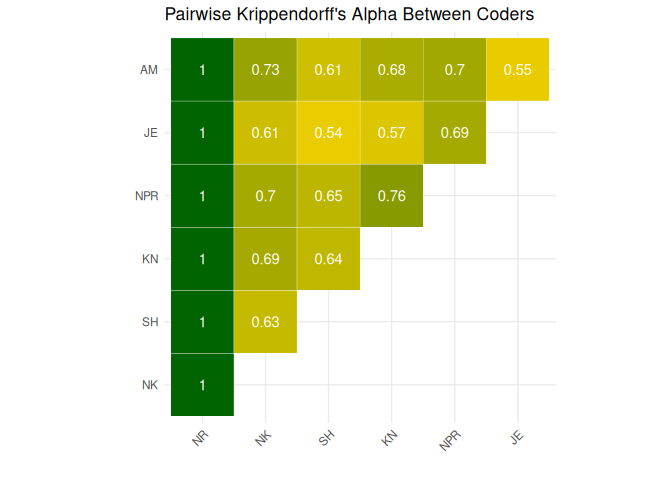
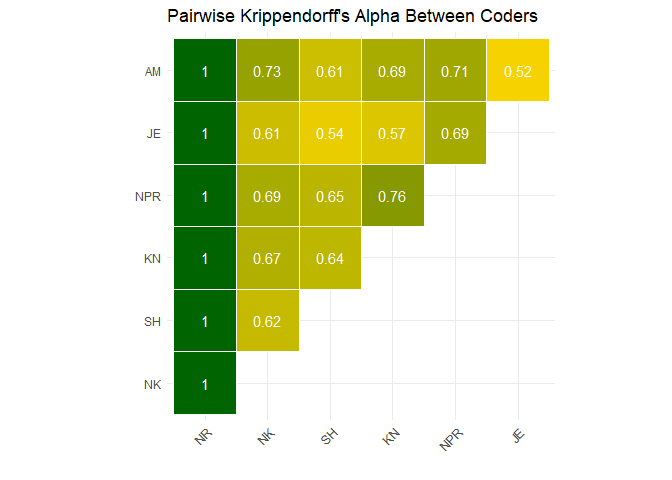
updated download/create stances scripts

diff --git a/src/data-processing/quarto_test/topic_report.md b/src/data-processing/quarto_test/topic_report.md
@@ -25,7 +25,7 @@ library(purrr)
 ```
 
 ``` r
-all_units <- read_csv(here::here("data/intermediate/coded_units_gpt.csv"))
+all_units <- read_csv(here::here("data/intermediate/coded_units_gpt_nshot.csv"))
 gpt_issues_all <- read_csv(here::here("data/intermediate/gpt_issues_all.csv")) |>
   filter(logprob >= -5)
 ```
@@ -33,7 +33,7 @@ gpt_issues_all <- read_csv(here::here("data/intermediate/gpt_issues_all.csv")) |
 ## Coder Reliability
 
 The overall reliability across all coded units is a Krippendorff’s alpha
-of **0.71**
+of **0.7**
 
 ![](topic_report_files/figure-commonmark/plot-alpha-1.png)
 
@@ -47,17 +47,17 @@ topic.
 
 |     Topic      | Completed | Total | Percentage Done | Reliability (α) |
 |:--------------:|:---------:|:-----:|:---------------:|:---------------:|
-|  Agriculture   |    790    |  368  |       47%       |      0.65       |
-|  CivilRights   |   1819    | 1741  |       96%       |      0.68       |
+|  Agriculture   |    790    |  790  |      100%       |      0.68       |
+|  CivilRights   |   1819    | 1787  |       98%       |      0.68       |
 |    Defense     |    682    |   0   |       0%        |       NA        |
 |       EU       |    387    |   0   |       0%        |       NA        |
-|    Economic    |   1588    | 1443  |       91%       |      0.69       |
-|   Education    |    561    |  50   |       9%        |      0.72       |
-|  Environment   |   1650    | 1606  |       97%       |      0.70       |
+|    Economic    |   1588    | 1472  |       93%       |      0.67       |
+|   Education    |    561    |  51   |       9%        |      0.72       |
+|  Environment   |   1650    | 1650  |      100%       |      0.70       |
 |   Government   |   1774    |   0   |       0%        |       NA        |
 |     Health     |    849    |   0   |       0%        |       NA        |
 |    Housing     |    422    |   0   |       0%        |       NA        |
-|  Immigration   |   2163    | 2109  |       98%       |      0.69       |
+|  Immigration   |   2163    | 2163  |      100%       |      0.68       |
 | Infrastructure |    203    |   0   |       0%        |       NA        |
 |     Order      |    627    |   0   |       0%        |       NA        |
 
@@ -67,19 +67,19 @@ topic.
 
 ![](topic_report_files/figure-commonmark/pairwise-plots-1.png)
 
-#### Topic α score: 0.6467311
+#### Topic α score: 0.6832059
 
 ## Topic: CivilRights
 
 ![](topic_report_files/figure-commonmark/pairwise-plots-2.png)
 
-#### Topic α score: 0.684605
+#### Topic α score: 0.6784887
 
 ## Topic: Economic
 
 ![](topic_report_files/figure-commonmark/pairwise-plots-3.png)
 
-#### Topic α score: 0.6892224
+#### Topic α score: 0.6706365
 
 ## Topic: Education
 
@@ -91,10 +91,10 @@ topic.
 
 ![](topic_report_files/figure-commonmark/pairwise-plots-5.png)
 
-#### Topic α score: 0.69547
+#### Topic α score: 0.695394
 
 ## Topic: Immigration
 
 ![](topic_report_files/figure-commonmark/pairwise-plots-6.png)
 
-#### Topic α score: 0.6861945
+#### Topic α score: 0.6779526
